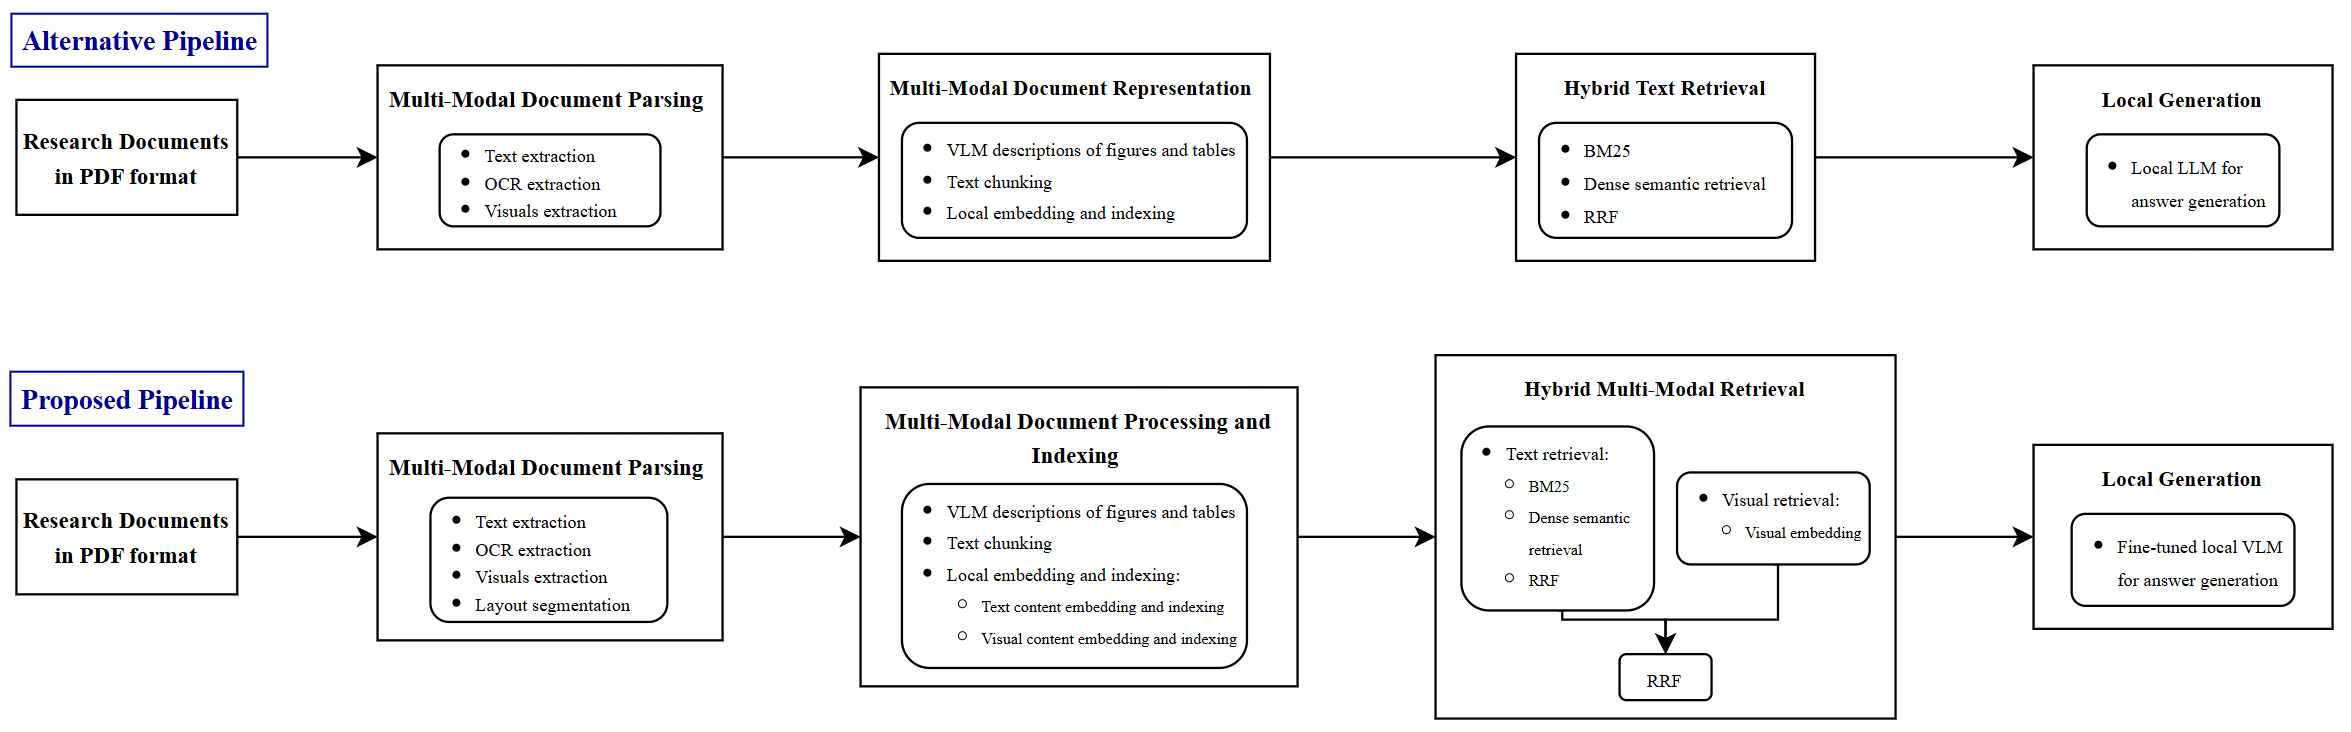
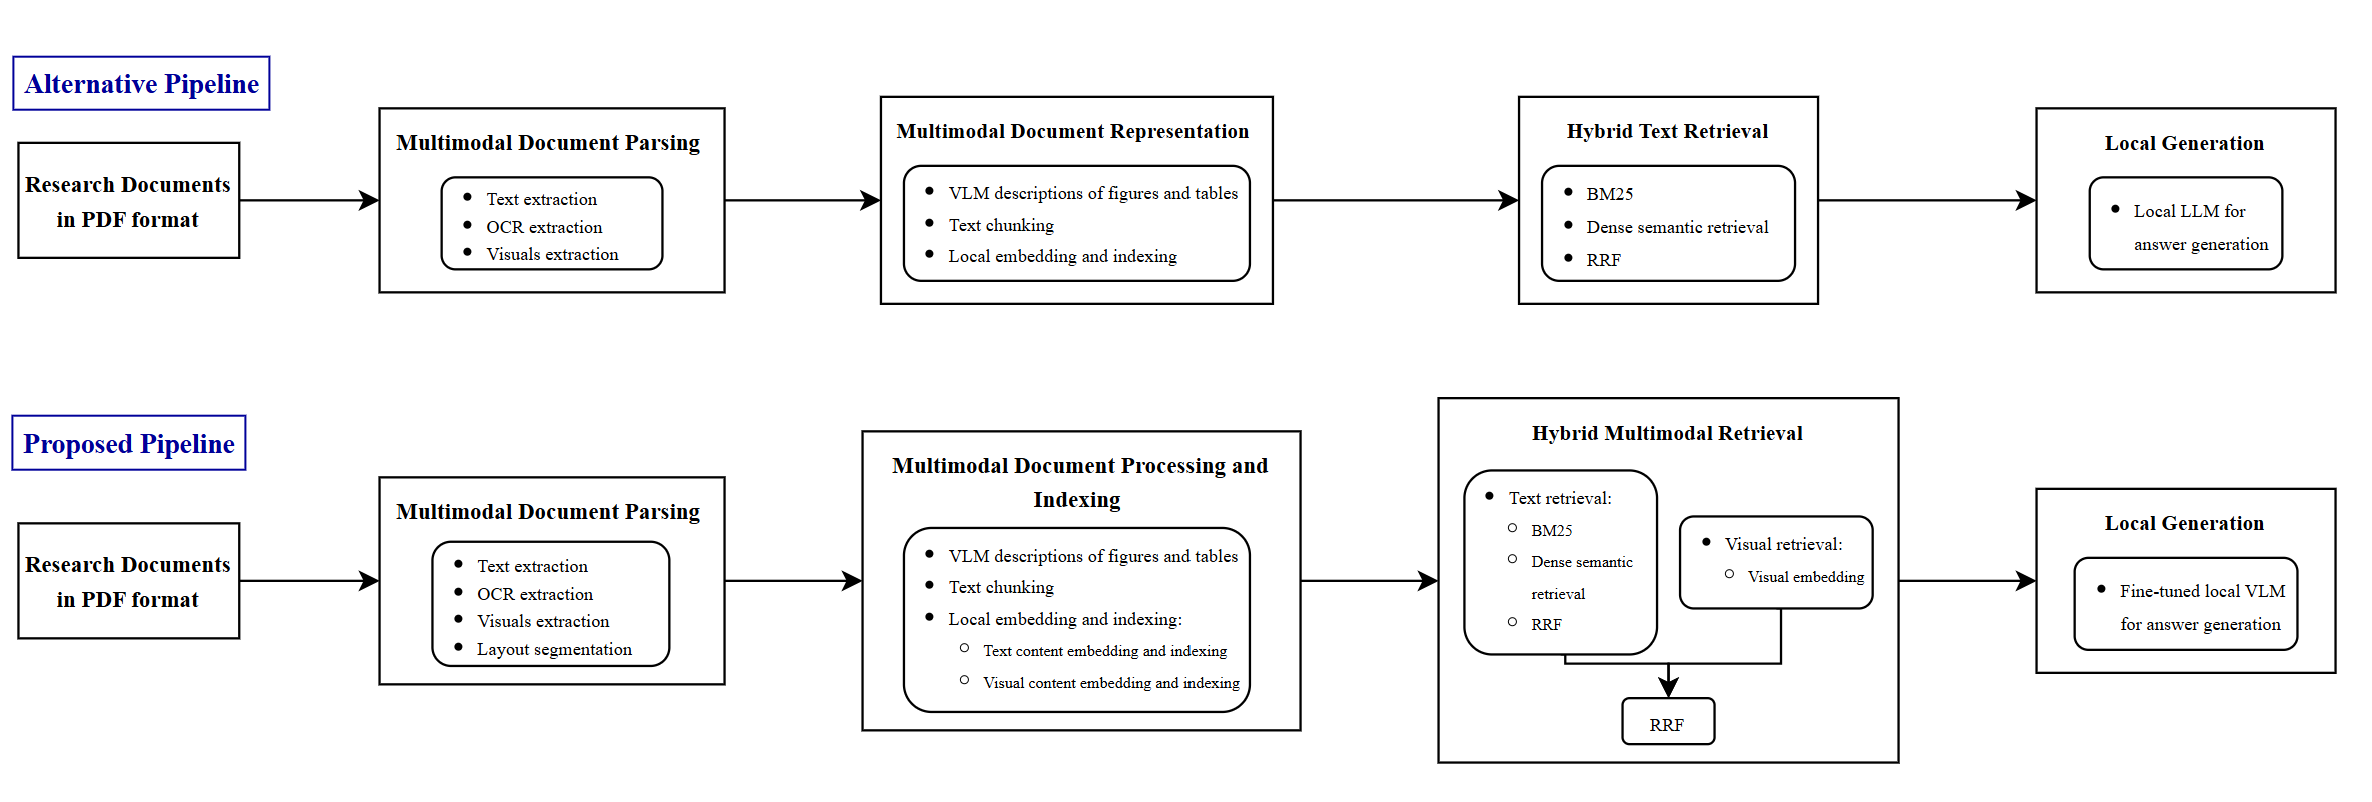
fix word issues and consistency

diff --git a/main.tex b/main.tex
@@ -163,23 +163,23 @@ In addition, current document processing systems utilizing \ac{AI} rely heavily 
 \subsection{Problem Statement}
 Even with the latest developments in document question answering and multimodal \ac{RAG}, there are a few critical challenges posed by current techniques in dealing with complicated visual research documents. The first challenge is the heavy dependence of visual retrieval on \ac{OCR}-aligned data, which makes the extraction and retrieval of non-textual visual data such as diagrams, raw charts, and figures very challenging. Another challenge posed by alternative deep research techniques is the use of multiple retrieval and refinement loops per query. Furthermore, standard fixed-size data chunking regularly serves related ideas across arbitrary boundaries, while current hybrid retrieval methods combine keyword and semantic search solely on textual chunks without integrating independently retrieved visual evidence.\\
 
-Consequently, there is a distinct gap in the availability of an effective local, privacy-preserving system capable of preserving document layout structure, independently processing textual and visual modalities, and fusing evidence from both streams during retrieval. This project addresses this issue by proposing a pipeline for an offline Multimodal \ac{RAG} system. The proposed architecture performs deep layout-aware document structure analysis, employs hybrid text retrieval (combining the \ac{BM25} algorithm with dense semantic search) alongside independent visual retrieval, and unifies multimodal results at the retrieval stage using the \ac{RRF} algorithm all prior to response generation by a locally hosted \ac{VLM}.
+Consequently, there is a distinct gap in the availability of an effective local, privacy-preserving system capable of preserving document layout structure, independently processing textual and visual modalities, and fusing evidence from both streams during retrieval. This project addresses this issue by proposing a pipeline for an offline multimodal \ac{RAG} system. The proposed architecture performs deep layout-aware document structure analysis, employs hybrid text retrieval (combining the \ac{BM25} algorithm with dense semantic search) alongside independent visual retrieval, and unifies multimodal results at the retrieval stage using the \ac{RRF} algorithm all prior to response generation by a locally hosted \ac{VLM}.
 
 \subsection{Scope and Deliverables}
 This section is devoted to defining the functional and technical boundaries within which the project operates by accurately defining the scope of work. This section reviews the compatibility of the project with the strategic identity of King Faisal University and its societal impact and concludes with a statement of the concrete outputs expected at the end of the project period to prove the effectiveness of the achieved system.
 
 \subsubsection{Definition of the Project's Scope}
-Scope refers to the functional and technical limitations of the system, as it is constrained by its capability to process only research and technical documents in PDF format to extract and analyze textual and visual information, such as tables, figures, and graphs. It will assist in the accurate search, retrieval, and summary of information using a multimedia retrieval enhanced generation approach. The limitation of the system's processing ability includes local processing for confidentiality. The system is created specifically for the use of researchers, students, and educational institutions for the purpose of analyzing their research documents privately and confidentially.
+Scope refers to the functional and technical limitations of the system, as it is constrained by its capability to process only research and technical documents in PDF format to extract and analyze textual and visual information, such as tables, figures, and graphs. It will assist in the accurate search, retrieval, and summary of information using a multimodal retrieval enhanced generation approach. The limitation of the system's processing ability includes local processing for confidentiality. The system is created specifically for the use of researchers, students, and educational institutions for the purpose of analyzing their research documents privately and confidentially.
 
 \subsubsection{Alignment with KFU Identity and Society Impact}
 The proposed AI-Based Research Documents Repository Using \acp{VLM} aligns with King Faisal University's trend toward digital transformation, scientific research, innovation, and the effective use of modern technologies. KFU emphasizes the use of technology to support teaching, learning, and research services, as well as improving access to knowledge resources and research information.\\
 
-The proposed approach to achieving these goals will be through offering an intelligent research repository that uses multimodal document processing, hybrid retrieval, and local \ac{AI} models to allow for efficient and interactive access to research knowledge for students and researchers. This approach will enable the system to obtain data from both visual and textual content in the research documents and produce grounded answers.\\
+The proposed approach to achieve these goals will be through offering an intelligent research repository that uses multimodal document processing, hybrid retrieval, and local \ac{AI} models to allow for efficient and interactive access to research knowledge for students and researchers. This approach will enable the system to obtain data from both visual and textual content in the research documents and produce grounded answers.\\
 
-In terms of societally focused applications, the implementation of the project would allow easier access to scientific knowledge, as well as reduced time and effort involved in researching vast sets of literature materials. Moreover, the technology implemented by the project can make users more independent regarding their control over research data by decreasing reliance on \ac{AI} services located on cloud networks. Thus, the contribution of the project to forming a knowledge-based, digitally advanced society is clear. In addition, the project is directly associated with the development activities of KFU.
+In terms of societally focused applications, the implementation of the project would allow easier access to scientific knowledge, as well as reduced time and effort involved in researching vast sets of literature materials. Moreover, the technology implemented by the project can make users more independent regarding their control over research data by decreasing reliance on \ac{AI} services located on cloud networks. Thus, the contribution of the project to form a knowledge-based, digitally advanced society is clear. In addition, the project is directly associated with the development activities of KFU.
 
 \subsubsection{Expected Project Deliverables}
-The expected outputs include the delivery of a functional web-based research repository that allows uploading and managing research papers, provides multimedia search and retrieval capabilities, answers queries in natural language, summarizes and analyzes documents, and integrates the processing of textual and visual content. The project includes a fully operational \ac{AI} processing pipeline in a local environment, ensuring local processing of documents, multimedia retrieval, and local generation without relying on cloud services. The output also includes a specially trained and adapted local language model to answer the questions of research documents with high accuracy. A comprehensive evaluation results package will be presented that measures the efficiency of the system by analyzing the retrieval performance and the accuracy of answering questions to demonstrate the effectiveness of the proposed methodology and its suitability for the research environment.
+The expected outputs include the delivery of a functional web-based research repository that allows uploading and managing research papers, provides multimodal search and retrieval capabilities, answers queries in natural language, summarizes and analyzes documents, and integrates the processing of textual and visual content. The project includes a fully operational \ac{AI} processing pipeline in a local environment, ensuring local processing of documents, multimodal retrieval, and local generation without relying on cloud services. The output also includes a specially trained and adapted local language model to answer the questions of research documents with high accuracy. A comprehensive evaluation results package will be presented that measures the efficiency of the system by analyzing the retrieval performance and the accuracy of answering questions to demonstrate the effectiveness of the proposed methodology and its suitability for the research environment.
 
 \cleardoublepage
 \section{Literature Review}
@@ -204,7 +204,7 @@ Gosmar and Zenezini \cite{Gosmar2026MADPAM} (2026) introduced MADP, a multiagent
 
 Evaluated using document-level accuracy, field-level F1 scores, and processing time, the system was tested on a dataset of 955 multilingual (Italian, English, German, French, and Arabic) documents from over 50 heterogeneous suppliers, alongside a 100-document stratified subset for ablation studies and a projected scenario of 100,000 annual invoices. In production, the system achieved a 97.0\% full automation rate, requiring non-\ac{AI} intervention for only 3\% of documents. The ablation study showed that MADP with \ac{HITL} supervision reached a 98.5\% document-level accuracy, with the Parser Agent alone improving accuracy by 17.5 percentage points. Model evaluations revealed that Mistral-Small-3.2 achieved the highest F1 score (92.9\%), while DeepSeek-OCR-Regolo offered the fastest inference time. Scaling to 100,000 invoices annually reduces \ac{FTE} labor requirements by nearly 70\%, and the hybrid \ac{AI}+\ac{HITL} approach significantly boosts sustainability by cutting CO2 emissions and energy consumption by 69\%, and water usage by 63\% compared to traditional manual processing.\\
 
-Chandrasekhar et al. \cite{Chandrasekhar2026MaterialDA} (2026) introduced the \ac{MDA}, a multi-agent system architecture designed to automate the extraction of structured data from materials science literature by converting research PDFs into unified tabular databases using Multimodal \ac{LLM} and parallel processing. The \ac{MDA} methodology comprises four sequential stages: an input and extraction stage that processes PDFs using the MCP model and the marker-pdf tool to generate Markdown files for text and tables, and JPEG images for graphs; a data decomposition stage that organizes outputs into local subfolders per paper to preserve multimedia context; a parallel processing stage where a main agent spawns independent "doc-writer" sub-agents to synchronously read subfolders and extract material parameters into structured JSON files; and a compilation stage where a "csv-writer" agent unifies the JSON files into a single CSV database. The system is prompt-driven and incorporates \ac{HITL} supervision for guidance and verification.\\
+Chandrasekhar et al. \cite{Chandrasekhar2026MaterialDA} (2026) introduced the \ac{MDA}, a multi-agent system architecture designed to automate the extraction of structured data from materials science literature by converting research PDFs into unified tabular databases using multimodal \ac{LLM} and parallel processing. The \ac{MDA} methodology comprises four sequential stages: an input and extraction stage that processes PDFs using the MCP model and the marker-pdf tool to generate Markdown files for text and tables, and JPEG images for graphs; a data decomposition stage that organizes outputs into local subfolders per paper to preserve multimodal context; a parallel processing stage where a main agent spawns independent "doc-writer" sub-agents to synchronously read subfolders and extract material parameters into structured JSON files; and a compilation stage where a "csv-writer" agent unifies the JSON files into a single CSV database. The system is prompt-driven and incorporates \ac{HITL} supervision for guidance and verification.\\
 
 The system was evaluated using two experimental MeltpoolNet manufacturing kits containing 789 rows of process parameters and material properties, alongside a dataset of \ac{HEA} and \ac{CCA} comprising 366 rows of mechanical properties embedded within graphs, diagrams, and stress-strain curves rather than regular text. Results demonstrated that \ac{MDA} is a highly scalable solution with performance varying by data type. For the text and table-rich MeltpoolNet dataset, the GLM 5V Turbo model achieved the highest F1 scores, while Qwen-3.5 recorded the lowest \ac{MAE} for melting temperature. Conversely, for the graph-heavy \ac{HEA}/\ac{CCA} dataset, Claude Opus 4.6 outperformed other models by accurately reproducing mechanical properties with minimal errors, whereas GPT Series models exhibited larger errors. Ultimately, the GLM 5V Turbo model was identified as the most balanced base model for handling diverse data formats.\\
 
